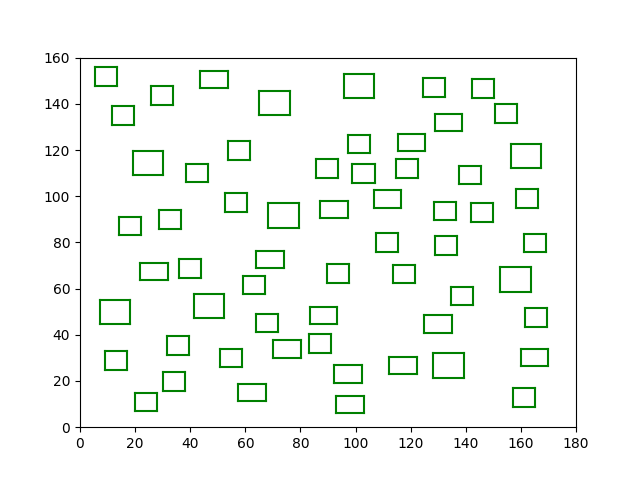
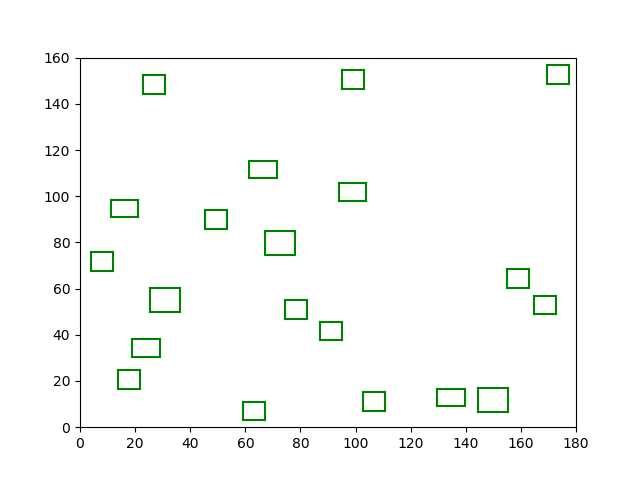
water

diff --git a/Algorithms/fireworks.py b/Algorithms/fireworks.py
@@ -17,33 +17,62 @@ import random
 import numpy
 import copy
 
-max_val = 0
-max_val_houses = []
 
-# place 1 to 20 houses
-for i in range (MAP['nr_houses'][0]):
-    # get max value of house in random map
-    for i in range(10):
-        map_max_val = random_generator(MAP_20)
-        for house in map_max_val.houses:
-            house.calc_freespace(map_max_val)
-            print(house.freespace)
-            value = house.calc_value()
-            print(value)
+def fireworks(map_charac):
 
-            # check if house value is higher than previous value and store in max_val
-            # add characteristics of house in list
-            if value > max_val:
-                max_val = value
-                max_val_houses.append(house)
+    def max_val(iters):
 
-    for house in max_val_houses:
-        place_house(house)
+        max_val = 0
+        max_val_houses = []
 
-    for i in range(MAP['nr_houses'][0] - len(max_val_houses)):
-        place_house(random)
+        for i in range(iters):
+            map_max_val = random_generator(map_charac)
+
+            for house in map_max_val.houses:
+                house.calc_freespace(map_max_val)
+                value = house.calc_value()
+
+                allowed = False
+                # check if house value is higher than previous value and store in max_val
+                # and check if location is not the same. add characteristics of house in list
+                if value > max_val:
+                    max_val = value
+                    max_val_houses.append(house)
+
+            new_map = Map(map_charac)
+
+            for house in max_val_houses:
+                print(house.type)
+                new_map.place_house(house.location, house.self_id, house.type)
+
+            return new_map
+
+    max_val(1)
+
+    i = 2
+
+    # place number of houses - houses placed with max_values
+    while (out_map.nr_houses) - (len(max_val_houses)) > 0:
+
+        out_map = max_val(1)
+
+        for house in max_val_houses:
+
+            nr_of_type = out_map.nr_houses * out_map.distr_houses[i] 
+
+        for j in range(int(nr_of_type)):
+
+        	allowed = False
+
+        	while allowed == False:
+        		loc = {'x' : random.uniform(0, out_map.width),
+        			   'y' : random.uniform(0, out_map.height)}
+
+        		house_id = 100 * (i + 1) + j
+
+        		allowed = out_map.place_house(loc, house_id,
+        									  map_charac['types_houses'][i])
+        i -= 1
 
 
-
-
-    # return max_val
+    return max_val, out_map

diff --git a/Classes/map.py b/Classes/map.py
@@ -63,8 +63,35 @@ class Map(object):
 			if house.freespace < house.min_free:
 				del self.houses[len(self.houses) - 1]
 				return False
-			
+
 		return True
+
+	def place_water(self, loc, water_id):
+		'''Places water on the map
+
+		Input arguments:
+		loc -- Location where the water body needs to be placed
+		water_id -- id corresponding to the water body being placed
+		'''
+
+		# calculate total water body
+		total_water = map_charac['water_prev'] * (map_charac['width'] * map_charac['height'])
+
+		allowed = False
+
+		while allowed == False:
+			x = random.uniform(0, (map_charac['water_prev'] * (map_charac['width'] * map_charac['height'])))
+			y = (map_charac['width'] * map_charac['height']) - x
+
+			if (x / y) > 0.25 or (x / y) < 4:
+				allowed = True
+
+		size = {'width': x, 'height': y}
+
+		new_water = Water(loc, water_id, size)
+
+		self.water.append(new_water)
+
 
 
 	def calc_freespace_on_map(self, new_house):

diff --git a/Running_Scripts/test.py b/Running_Scripts/test.py
@@ -1,10 +1,10 @@
 
 import sys
-list_dir = sys.path[0].split('/')
+list_dir = sys.path[0].split('\\')
 string = ''
 for i in range(len(list_dir) - 1):
     string += list_dir[i]
-    string += '/'
+    string += '\\'
 
 sys.path.insert(0, string)
 
@@ -13,6 +13,7 @@ from Classes.map import *
 from Classes.water import *
 from Characteristics.Amstelhaege import *
 from Algorithms.helpers import *
+from Algorithms.fireworks import *
 from Algorithms.best_of_random import *
 from Algorithms.hillclimber import *
 from Visuals.scatterplot import *
@@ -26,6 +27,6 @@ from Visuals.scatterplot import *
 # for house in ah_map.houses:
 # 	print(house.freespace)
 
-# ah_map = Map(MAP_20)
+ah_map = random_generator(MAP_20)
 
-scatterplot(random_generator(MAP_60))
+fireworks(MAP_20)

diff --git a/Classes/water.py b/Classes/water.py
@@ -7,7 +7,7 @@
 class Water_Element(object):
 	'''Class for water object.'''
 
-	def __init__(self, loc):
+	def __init__(self, loc, self_id, size):
 		'''Class is list of coordinates on where the water is placed.
 
 		Input arguments:
@@ -15,4 +15,6 @@ class Water_Element(object):
 		'''
 
 		self.location = loc
-		self.size = ''
+		self.self_id = self_id
+		self.width = size['width']
+		self.height = size['height']

diff --git a/Classes/house.py b/Classes/house.py
@@ -156,12 +156,6 @@ class House(object):
 						tmpfreespace.append(diff_houses[0] \
 											- x_diffwall
 											- (house.width / 2))
-<<<<<<< HEAD
-
-
-
-=======
->>>>>>> 3a249982010a92e061d7325f39877293af9e29b0
 
 				# else compute distance of corners of the house
 				else:
